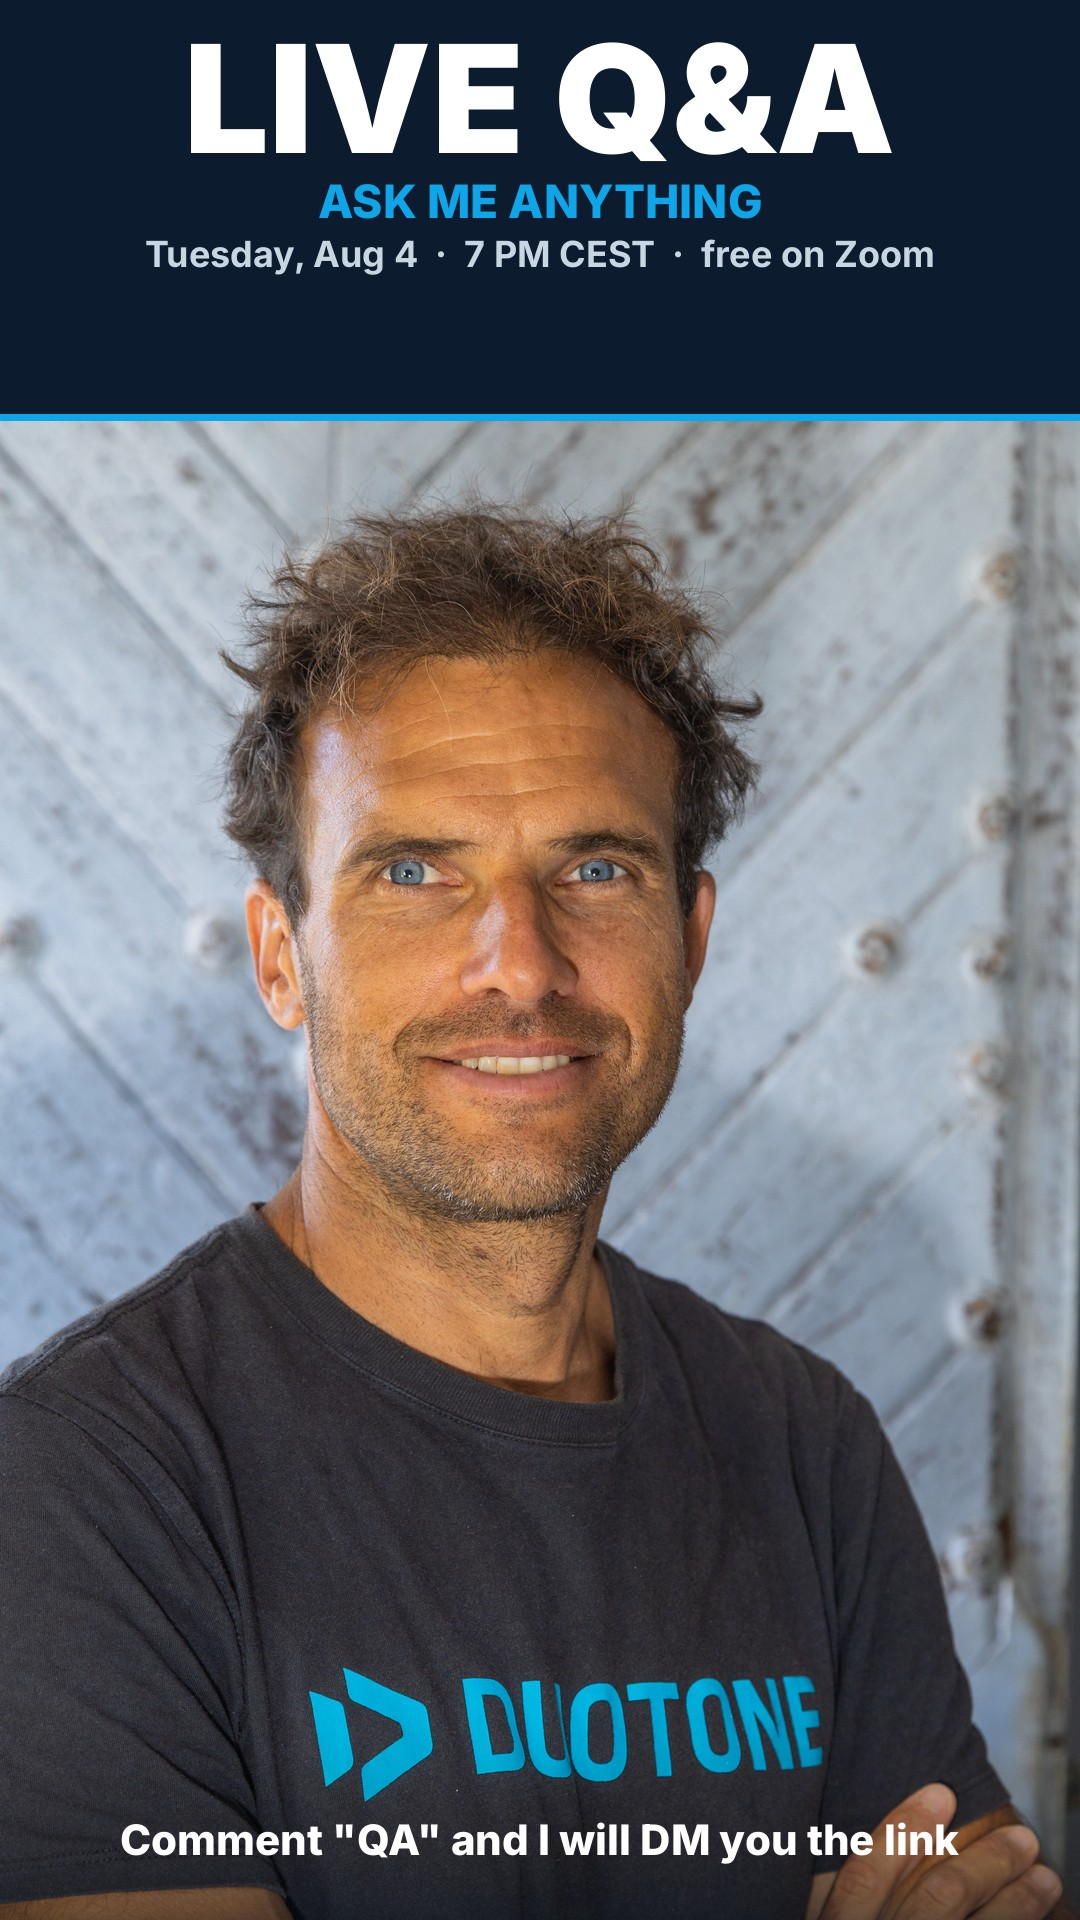
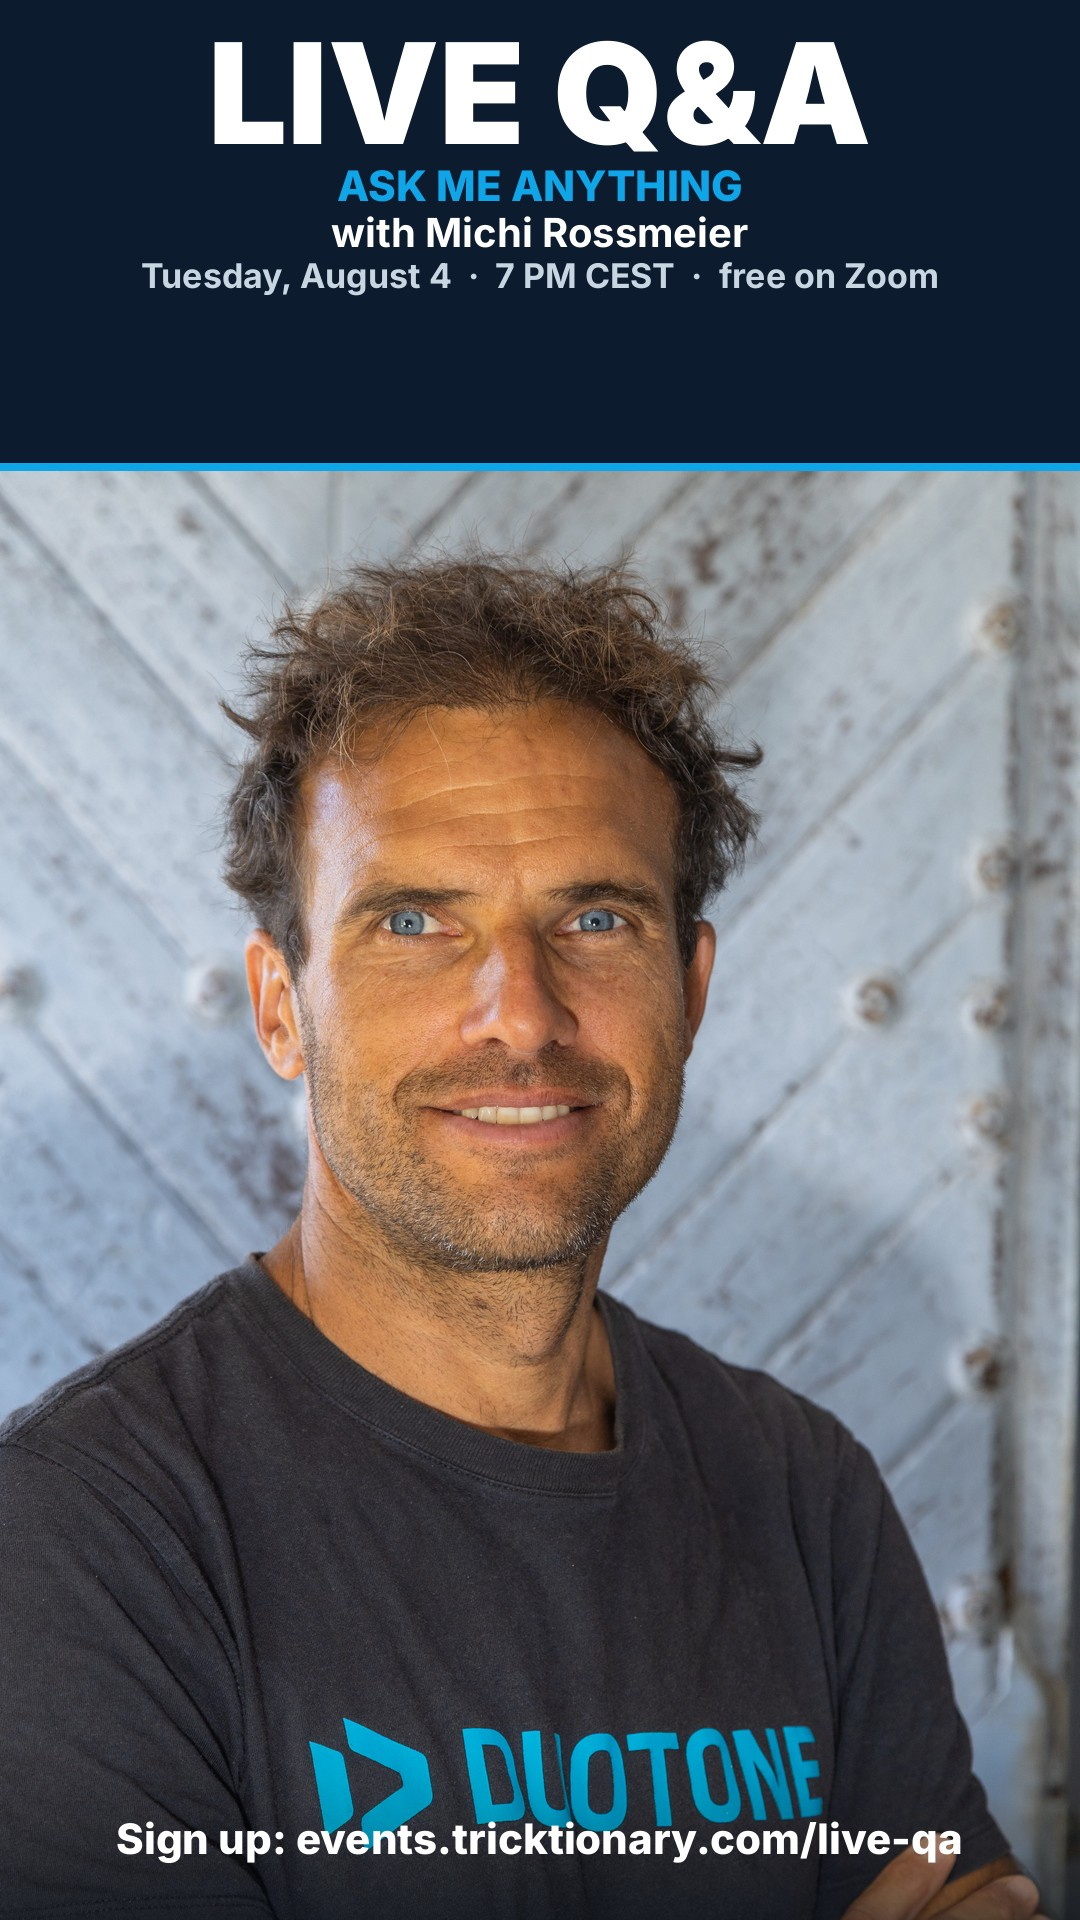
feat(qa): 'with Michi Rossmeier' across all campaign graphics + texts, versioned email hero

diff --git a/docs/qa-campaign-assets/newsletter-qa-aug4.html b/docs/qa-campaign-assets/newsletter-qa-aug4.html
@@ -39,14 +39,14 @@
   <!-- title -->
   <tr><td class="px" style="padding:32px 36px 8px;">
     <div style="font-size:12px;letter-spacing:2px;text-transform:uppercase;color:#0ea5e9;font-weight:bold;">Live on Zoom - Tuesday, August 4, 7 PM CEST</div>
-    <h1 style="margin:10px 0 6px;font-size:30px;line-height:1.18;color:#0d1b2e;font-weight:800;">Live Q&amp;A - ask me anything</h1>
+    <h1 style="margin:10px 0 6px;font-size:30px;line-height:1.18;color:#0d1b2e;font-weight:800;">Live Q&amp;A with Michi Rossmeier - ask me anything</h1>
     <div style="font-size:16px;color:#5b6b7b;font-weight:600;">One hour, free, everyone welcome.</div>
   </td></tr>
 
   <!-- body -->
   <tr><td class="px" style="padding:18px 36px 0;font-size:16px;line-height:1.62;color:#33414f;">
     <table role="presentation" width="100%" cellpadding="0" cellspacing="0" style="border-radius:10px;overflow:hidden;margin:4px 0 18px;">
-<tr><td><a href="https://events.tricktionary.com/live-qa" style="text-decoration:none;"><img src="https://events.tricktionary.com/images/qa-aug4-hero-email.jpg" width="528" alt="LIVE Q&amp;A with Michi - Tuesday, August 4, 7 PM CEST, free on Zoom" style="width:100%;height:auto;border-radius:10px;"></a></td></tr>
+<tr><td><a href="https://events.tricktionary.com/live-qa" style="text-decoration:none;"><img src="https://events.tricktionary.com/images/qa-aug4-hero-email-v2.jpg" width="528" alt="LIVE Q&amp;A with Michi Rossmeier - Tuesday, August 4, 7 PM CEST, free on Zoom" style="width:100%;height:auto;border-radius:10px;"></a></td></tr>
 </table>
 <table role="presentation" cellpadding="0" cellspacing="0" align="center" style="margin:0 auto 22px;"><tr>
 <td class="btn" style="border-radius:10px;background:#0ea5e9;" align="center"><a href="https://events.tricktionary.com/live-qa" style="display:inline-block;padding:16px 42px;font-size:18px;font-weight:800;color:#ffffff;text-decoration:none;border-radius:10px;font-family:Helvetica,Arial,sans-serif;">I'm in - save my spot</a></td>

diff --git a/website/static/campaign-aug4/index.html b/website/static/campaign-aug4/index.html
@@ -61,16 +61,16 @@
 
   <h2>Images - tap to download</h2>
   <div class="assets">
-    <div class="asset"><img src="ig-feed-A-portrait.jpg" alt="Feed image A - portrait"><div class="n">Feed A - Portrait</div><a href="ig-feed-A-portrait.jpg" download>Download</a></div>
-    <div class="asset"><img src="ig-feed-B-action.jpg" alt="Feed image B - action"><div class="n">Feed B - Action</div><a href="ig-feed-B-action.jpg" download>Download</a></div>
-    <div class="asset"><img src="ig-story-portrait.jpg" alt="Story image"><div class="n">Story (9:16)</div><a href="ig-story-portrait.jpg" download>Download</a></div>
-    <div class="asset"><img src="qa-aug4-books.jpg" alt="Books mockup"><div class="n">Books mockup (email)</div><a href="qa-aug4-books.jpg" download>Download</a></div>
+    <div class="asset"><img src="ig-feed-A-portrait.jpg?v=mr1" alt="Feed image A - portrait"><div class="n">Feed A - Portrait</div><a href="ig-feed-A-portrait.jpg?v=mr1" download>Download</a></div>
+    <div class="asset"><img src="ig-feed-B-action.jpg?v=mr1" alt="Feed image B - action"><div class="n">Feed B - Action</div><a href="ig-feed-B-action.jpg?v=mr1" download>Download</a></div>
+    <div class="asset"><img src="ig-story-portrait.jpg?v=mr1" alt="Story image"><div class="n">Story (9:16)</div><a href="ig-story-portrait.jpg?v=mr1" download>Download</a></div>
+    <div class="asset"><img src="qa-aug4-books.jpg?v=mr1" alt="Books mockup"><div class="n">Books mockup (email)</div><a href="qa-aug4-books.jpg?v=mr1" download>Download</a></div>
   </div>
 
   <h2>Instagram caption</h2>
   <div class="card copyblock">
     <button class="copybtn" data-copy="ig">Copy</button>
-    <pre id="copy-ig">LIVE Q&A. This Tuesday, August 4, 7 PM CEST 🎙🌊
+    <pre id="copy-ig">LIVE Q&A with Michi Rossmeier. This Tuesday, August 4, 7 PM CEST 🎙🌊
 
 One hour, live on Zoom, free. You ask, I answer.
 
